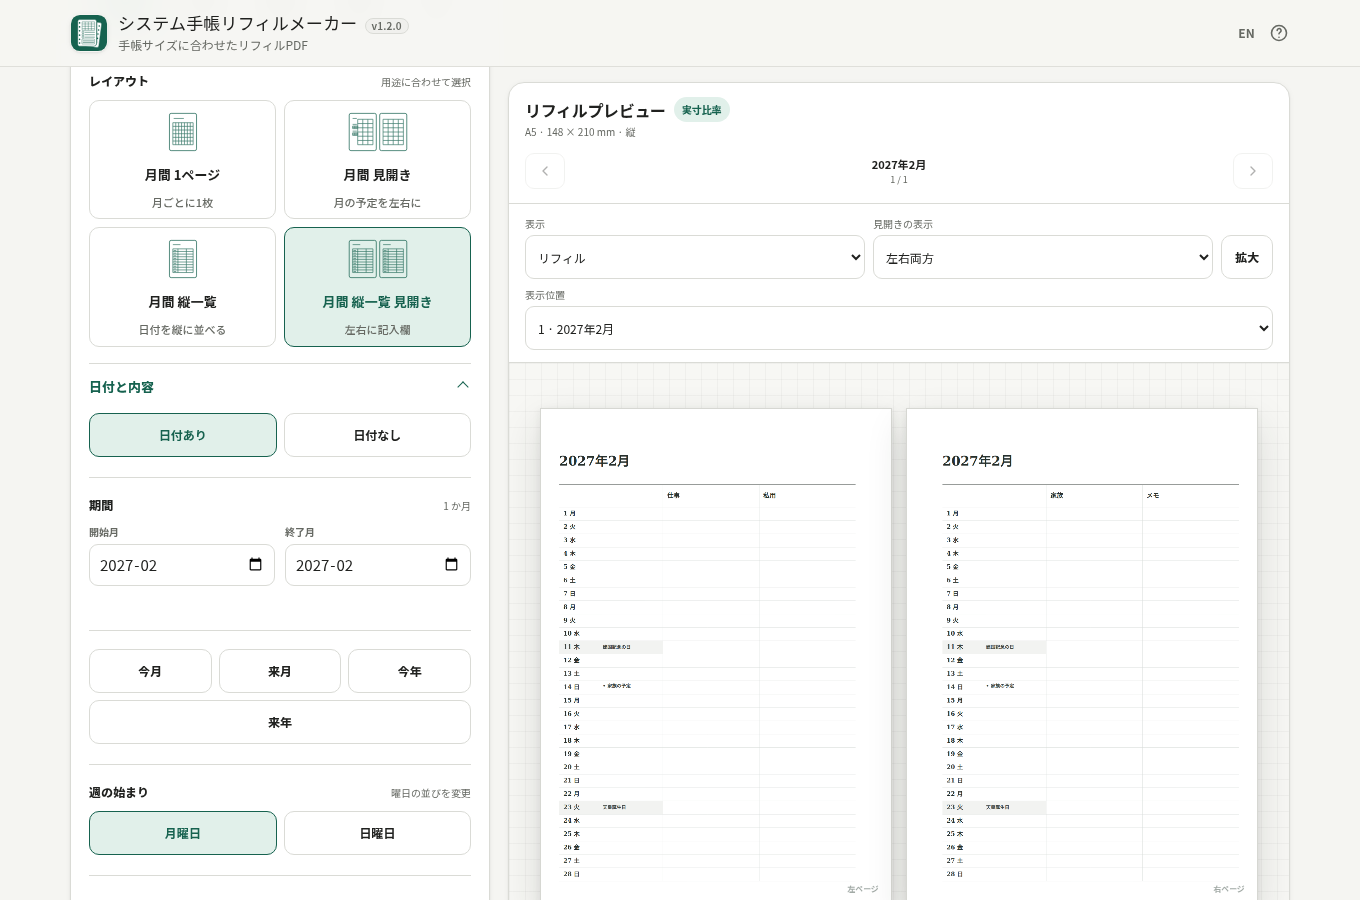
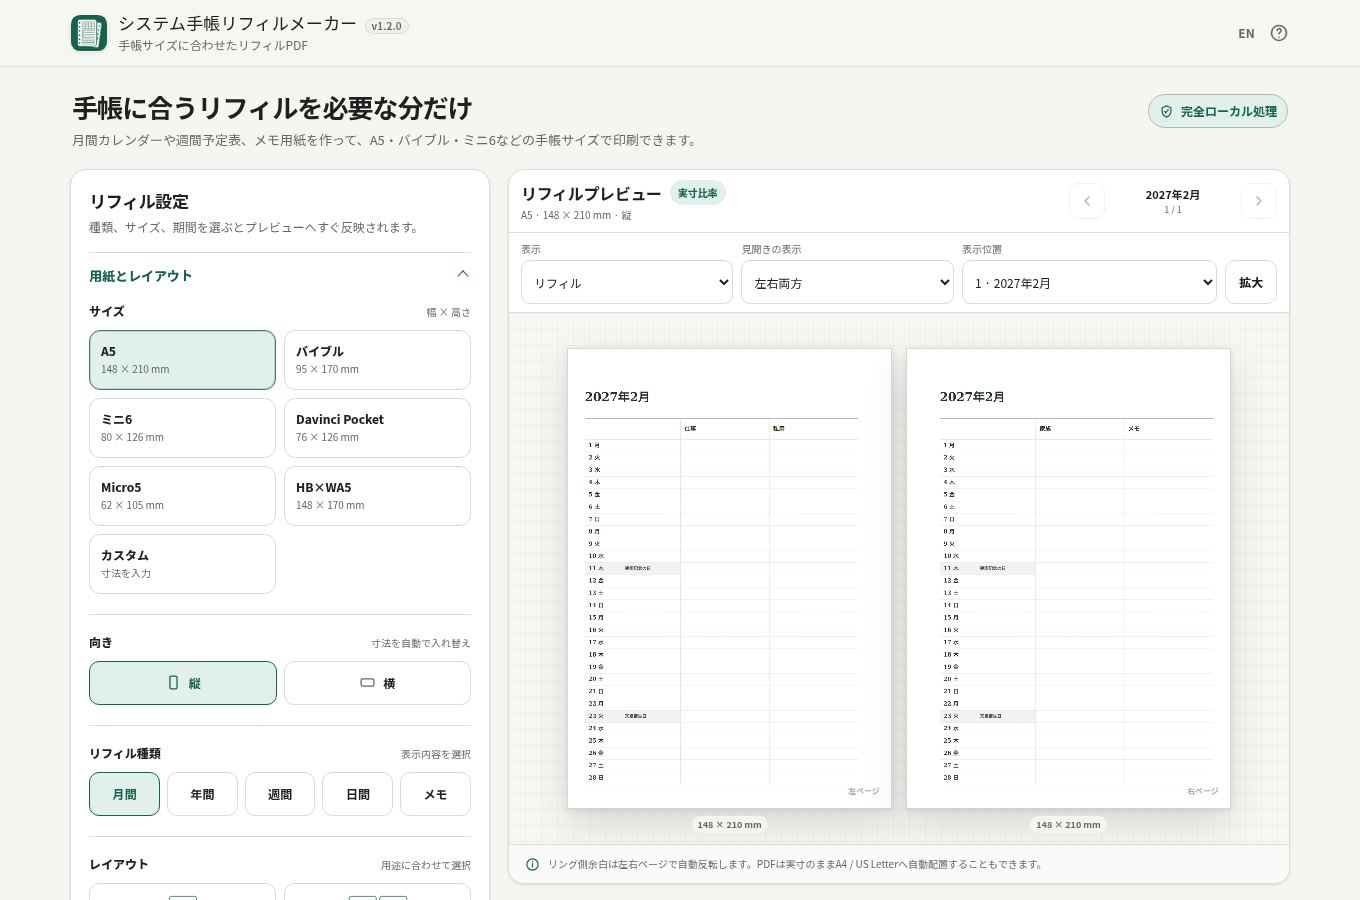
Complete release review and add verified tag and release workflow

diff --git a/planner-refill-maker.html b/planner-refill-maker.html
@@ -1255,7 +1255,7 @@
       'use strict';
 
       const APP_CONFIG = {"$schema":"./schemas/app-config.schema.json","name":"Planner Refill Maker","nameJa":"システム手帳リフィルメーカー","slug":"planner-refill-maker","version":"1.2.0","description":"Create dated, undated, and note-paper planner refills with day-level ranges, visual previews, ring-side and printer margins, and exact-size or duplex imposed PDF export entirely in the browser.","descriptionJa":"日付入り・日付なし・メモの手帳リフィルを、日単位の期間指定、プレビュー、リング側・用紙端の余白、実寸・両面面付けPDFに対応してブラウザー内だけで作成できます。","defaultLanguage":"auto","repository":{"owner":"ttomohisa","name":"htmlapps-planner-refill-maker"},"build":{"output":"dist/index.html","blockRuntimeNetwork":true,"selfExtract":{"enabled":true,"output":"dist/index.self-extract.html"},"sizeBudget":{"readableWarningMb":25,"selfExtractWarningMb":12}}};
-      const BUILD_MANIFEST = {"schemaVersion":2,"builder":"single-html-app-template/1.3","generatedAtUtc":"2026-11-05T19:33:29.1522826Z","app":{"name":"Planner Refill Maker","slug":"planner-refill-maker","version":"1.2.0"},"dependencies":[]};
+      const BUILD_MANIFEST = {"schemaVersion":2,"builder":"single-html-app-template/1.3","generatedAtUtc":"2026-11-05T19:45:52.3348822Z","app":{"name":"Planner Refill Maker","slug":"planner-refill-maker","version":"1.2.0"},"dependencies":[]};
       const assetBundle = {"schemaVersion":2,"dependencies":{}};
       const blobUrls = new Set();
       const assetByteCache = new Map();
@@ -2299,7 +2299,9 @@
           line(ctx,colX,top,colX,bottom,'#d8ddda',.8);
           colX += colW;
         });
-        line(ctx,x + width,top,x + width,bottom,'#d8ddda',.8);
+        line(ctx,colX,top,colX,bottom,'#d8ddda',.8);
+        // The three-day side can leave a spare column; keep it separate from the last day.
+        if (x + width - colX > .1) line(ctx,x + width,top,x + width,bottom,'#d8ddda',.8);
         line(ctx,x,top,x + width,top,'#d8ddda',.8);
         line(ctx,x,top + header,x + width,top + header,'#d8ddda',.8);
         if (timeWidth) {

diff --git a/src/index.template.html b/src/index.template.html
@@ -2299,7 +2299,9 @@
           line(ctx,colX,top,colX,bottom,'#d8ddda',.8);
           colX += colW;
         });
-        line(ctx,x + width,top,x + width,bottom,'#d8ddda',.8);
+        line(ctx,colX,top,colX,bottom,'#d8ddda',.8);
+        // The three-day side can leave a spare column; keep it separate from the last day.
+        if (x + width - colX > .1) line(ctx,x + width,top,x + width,bottom,'#d8ddda',.8);
         line(ctx,x,top,x + width,top,'#d8ddda',.8);
         line(ctx,x,top + header,x + width,top + header,'#d8ddda',.8);
         if (timeWidth) {

diff --git a/README.ja.md b/README.ja.md
@@ -135,6 +135,18 @@ powershell.exe -NoLogo -NoProfile -ExecutionPolicy Bypass -File .\scripts\check-
 
 `dist/` の生成済みHTMLは直接編集しません。
 
+## GitHub Releaseの公開
+
+リリース用PRをマージしたら、**Actions → Publish release → Run workflow** を開きます。ブランチは **main**、バージョンは `app.config.json` と同じ値を `v` なしで入力します（今回は `1.2.0`）。
+
+選択したコミットのビルド・検査後に `v1.2.0` タグを作成し、CHANGELOGの該当バージョンの説明と、次の3ファイルを添付したGitHub Releaseを公開します。
+
+- `planner-refill-maker-v1.2.0.html`：通常の単一HTML版。
+- `planner-refill-maker-v1.2.0.self-extract.html`：gzip圧縮した自己展開HTML版。
+- `SHA256SUMS.txt`：上記2ファイルのSHA-256チェックサム。
+
+PRの更新やマージだけでは自動公開しません。バージョン不一致、main以外のブランチ、既存タグがある場合は停止します。添付や公開に失敗した場合は、確認用の下書きReleaseが残ることがあります。既存Releaseは上書きしません。検査済みのファイルはActionsの成果物にも保存します。タグ・Releaseの作成権限があるアカウントで実行してください。
+
 ## プライバシーと通信防止
 
 手帳設定、カレンダー生成、プレビュー描画、PDF生成はブラウザー内で処理します。

diff --git a/README.md b/README.md
@@ -135,6 +135,18 @@ powershell.exe -NoLogo -NoProfile -ExecutionPolicy Bypass -File .\scripts\check-
 
 Do not edit generated files in `dist/` directly.
 
+## Publish a GitHub Release
+
+After merging the release PR, open **Actions → Publish release → Run workflow**. Select **main** and enter the version from `app.config.json`, without `v` (for this release: `1.2.0`).
+
+The workflow builds and checks the selected commit, creates `v1.2.0`, and publishes a GitHub Release with the corresponding changelog section and three downloads:
+
+- `planner-refill-maker-v1.2.0.html` — readable standalone app.
+- `planner-refill-maker-v1.2.0.self-extract.html` — gzip self-extracting standalone app.
+- `SHA256SUMS.txt` — SHA-256 checksums of both HTML files.
+
+PR updates and merges do not publish a release automatically. The workflow rejects a mismatched version, a branch other than `main`, or an existing tag. A failed upload or publication may leave a draft release for inspection; it does not overwrite an existing release. The checked files are also retained as an Actions artifact. Release publication requires repository permission to create tags/releases.
+
 ## Privacy and runtime network protection
 
 Planner settings, calendar generation, preview rendering, and PDF creation are processed locally in the browser.

diff --git a/CHANGELOG.md b/CHANGELOG.md
@@ -1,12 +1,13 @@
 # Changelog
 
-## Unreleased
-
-- Clarify Japanese and English help by removing internal layout, implementation, and audit commentary while preserving usage guidance and cautions.
-
 All notable changes to this project are documented in this file.
 
 ## [1.2.0]
+
+- Add a manual main-branch release workflow that verifies the version/build, creates its version tag, and publishes both standalone HTML variants with SHA-256 checksums.
+- Close every weekday column in facing vertical weeks, keeping the spare left-page area separate from the final weekday.
+- Fit the preview paper and its note into the remaining viewport; compact wide-panel controls and remove excess space around landscape paper.
+- Clarify Japanese and English help while preserving usage guidance and cautions.
 
 - Keep calendar labels within their rows on landscape and short custom pages, and omit the half-year range on yearly spreads.
 
